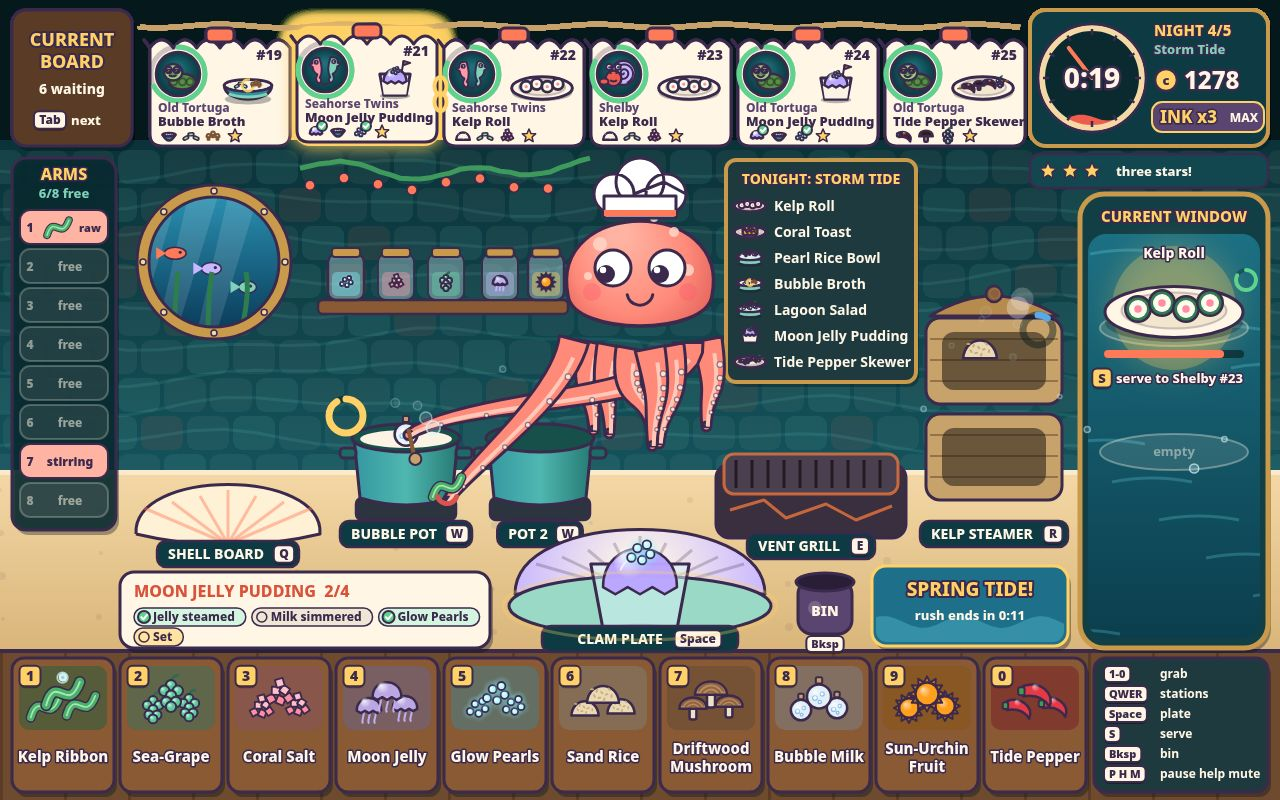
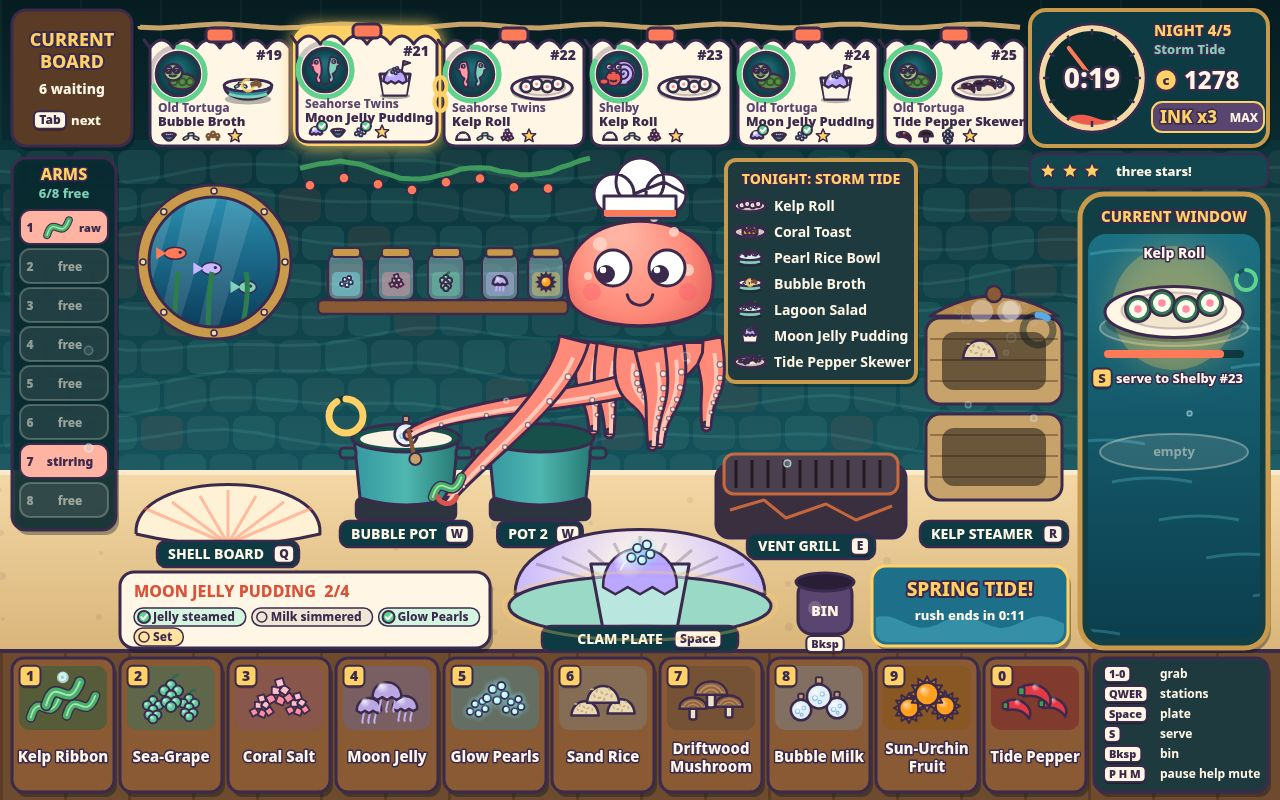
Return help and settings cards to where they were opened; fill the top band behind the tickets; recapture screenshots

Changed region(s): [[0.2188, 0.0, 0.375, 0.0625], [0.75, 0.3438, 0.8125, 0.4062], [0.3125, 0.5, 0.3438, 0.5312]]

diff --git a/game/src/app.js b/game/src/app.js
@@ -22,7 +22,7 @@ export function createApp({ campaign, audio }) {
   const app = {
     screen: 'title', overlay: null, campaign, audio, night: null, summary: null,
     mapSel: Math.min(campaign.unlocked, NIGHTS.length) - 1, fx: createEffects(), armView: null,
-    buttons: [], t: 0, hoverBin: null, drag: null, frozen: false, seed: 1,
+    buttons: [], t: 0, hoverBin: null, drag: null, frozen: false, seed: 1, returnTo: null,
   };
   setMuted(audio, !campaign.settings.sound);
   return app;
@@ -35,6 +35,7 @@ export function startNight(app, nightIndex, seed = (Date.now() % 100000) + 1) {
   app.fx = createEffects();
   app.screen = 'night';
   app.overlay = app.campaign.seenHelp ? null : 'help';
+  app.returnTo = null;
   app.campaign.seenHelp = true;
   app.mapSel = nightIndex;
   app.seed = seed;
@@ -133,6 +134,17 @@ export function drawApp(ctx, app) {
   app.buttons = buttons;
 }
 
+/** Opens a help or settings card; closing it returns to the pause menu if that is where it came from. */
+function openOverlay(app, name) {
+  app.returnTo = app.overlay === 'pause' ? 'pause' : null;
+  app.overlay = name;
+}
+
+function closeOverlay(app) {
+  app.overlay = app.returnTo;
+  app.returnTo = null;
+}
+
 /** Runs a screen command from a button or a key. */
 export function command(app, id) {
   playEvent(app.audio, 'click');
@@ -147,10 +159,10 @@ export function command(app, id) {
   }
   const actions = {
     play: () => { app.screen = 'map'; },
-    help: () => { app.overlay = 'help'; },
-    closeHelp: () => { app.overlay = app.screen === 'night' ? 'pause' : null; },
-    settings: () => { app.overlay = 'settings'; },
-    closeSettings: () => { app.overlay = app.screen === 'night' ? 'pause' : null; saveCampaign(app.campaign); },
+    help: () => openOverlay(app, 'help'),
+    closeHelp: () => closeOverlay(app),
+    settings: () => openOverlay(app, 'settings'),
+    closeSettings: () => { closeOverlay(app); saveCampaign(app.campaign); },
     toggleSound: () => {
       app.campaign.settings.sound = !app.campaign.settings.sound;
       setMuted(app.audio, !app.campaign.settings.sound);
@@ -205,7 +217,7 @@ export function handleKey(app, key) {
   }
   if (app.screen === 'night') {
     if (k === 'p' || k === 'Escape') { app.overlay = 'pause'; return true; }
-    if (k === 'h') { app.overlay = 'help'; return true; }
+    if (k === 'h') { openOverlay(app, 'help'); return true; }
     const action = actionForKey(app.night, key);
     if (!action) return false;
     dispatch(app.night, action);

diff --git a/game/src/render/scene.js b/game/src/render/scene.js
@@ -17,6 +17,13 @@ const INK = PALETTE.ink;
 
 /** Wall tiles, caustic ripples, the porthole with passing fish, a shelf and the menu slate. */
 export function drawWall(ctx, state, t, calm) {
+  const top = ctx.createLinearGradient(0, 0, 0, 150);
+  top.addColorStop(0, '#061c21');
+  top.addColorStop(1, '#0b2b31');
+  ctx.fillStyle = top;
+  ctx.fillRect(0, 0, 1280, 150);
+  ctx.fillStyle = 'rgba(127,209,185,0.05)';
+  for (let x = 0; x < 1280; x += 80) ctx.fillRect(x, 0, 2, 150);
   const g = ctx.createLinearGradient(0, 140, 0, LAYOUT.wallBottom);
   g.addColorStop(0, '#0b3239');
   g.addColorStop(1, '#14525b');
